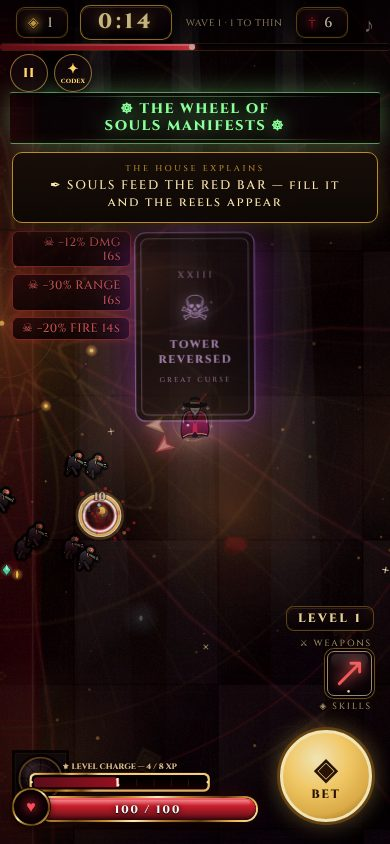
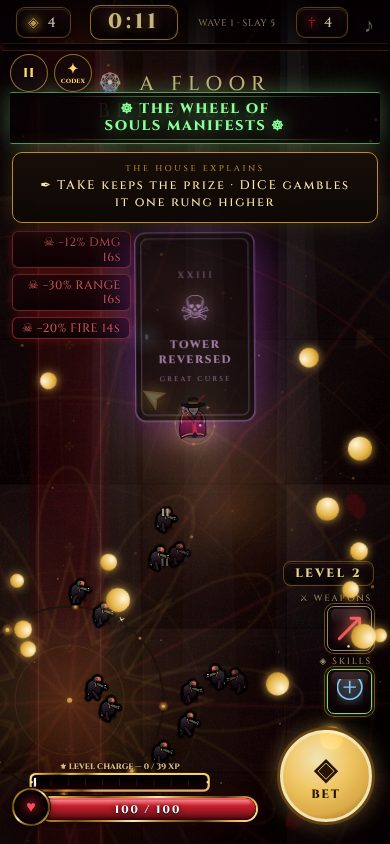
I1 #13: HUD wave line reads 'SLAY N' instead of 'N TO THIN'
Claude-Session: https://claude.ai/code/session_01LfZkkF7Ex9CahCtvUfnFA3

diff --git a/src/ui.js b/src/ui.js
@@ -346,7 +346,7 @@ function updateHUD(){
   _hSet('timer',fmt(gt));
   { let wv=$('waveInfo'); if(!wv){ wv=document.createElement('div'); wv.id='waveInfo'; const tm=$('timer'); if(tm&&tm.parentNode) tm.parentNode.insertBefore(wv,tm.nextSibling); }
     if(wv) { const left9=Math.max(0,enemies.filter(e=>!e.boss).length-waveClearTarget);
-      let wtxt='WAVE '+wave+(left9>0?' · '+left9+' TO THIN':'');
+      let wtxt='WAVE '+wave+(left9>0?' · SLAY '+left9:'');
       { const ha9=(typeof b2HouseAt==='function')?b2HouseAt():780; if(gt>=ha9-60&&gt<ha9&&!P._endless) wtxt='☷ THE HOUSE IN '+Math.ceil(ha9-gt)+'s ☷'; } if(_hud.wv!==wtxt){ _hud.wv=wtxt; wv.textContent=wtxt; } } }
   { const tgt=P.coins; if(window._coinDisp===undefined||window._coinDisp>tgt) window._coinDisp=tgt;
     const dd=tgt-window._coinDisp;
